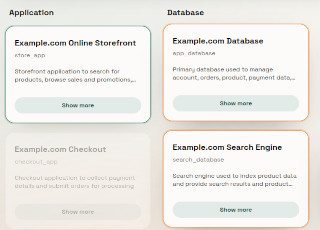
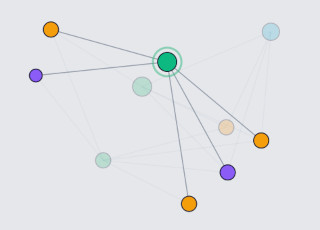
styling

diff --git a/apps/ethycunts/src/components/side-panel/SidePanel.tsx b/apps/ethycunts/src/components/side-panel/SidePanel.tsx
@@ -57,15 +57,15 @@ export function SidePanel({
   }, [selectedNodeId])
 
   return (
-    <div className="flex flex-col h-full bg-card">
+    <div className="flex flex-col h-full w-full">
         <div className="p-4 flex flex-col gap-6">
           {/* Detail panel */}
           {selectedSystem && (
-            <div className="bg-secondary/20 border border-border/50 rounded-xl p-5 animate-in fade-in slide-in-from-top-4 duration-300">
+            <div className="bg-gray-200/50 rounded-xl p-5">
               <div className="flex items-start justify-between mb-3">
                 <div className="flex-1 min-w-0 pr-2">
                   <span
-                    className="mb-2 uppercase tracking-wider text-[10px] font-semibold border-transparent capitalize"
+                    className="uppercase text-[10px] font-semibold"
                     style={{
                       backgroundColor: `${colorForGroup(selectedSystem.systemType)}20`,
                       color: colorForGroup(selectedSystem.systemType),
@@ -73,7 +73,7 @@ export function SidePanel({
                   >
                     {selectedSystem.systemType.replace(/_/g, ' ')}
                   </span>
-                  <h2 className="text-lg font-bold tracking-tight leading-snug">
+                  <h2 className="mt-2 text-lg font-bold">
                     {selectedSystem.name}
                   </h2>
                   <p className="text-xs font-mono text-muted-foreground mt-0.5">
@@ -102,9 +102,9 @@ export function SidePanel({
                     {selectedSystem.privacyDeclarations.map((decl, i) => (
                       <div
                         key={i}
-                        className="bg-background/50 border border-border/50 rounded-lg p-3 space-y-2"
+                        className="bg-gray-100/70 rounded-lg p-3 space-y-2 overflow-hidden"
                       >
-                        <p className="text-xs font-semibold text-foreground">
+                        <p className="pb-2 text-xs font-semibold text-foreground">
                           {decl.name}
                         </p>
                         <div className="grid grid-cols-[auto_1fr] gap-x-3 gap-y-1.5 text-xs">
@@ -118,11 +118,11 @@ export function SidePanel({
                           <span className="text-muted-foreground font-medium">
                             Categories
                           </span>
-                          <div className="flex flex-wrap gap-1">
+                          <div className="flex flex-wrap gap-1 min-w-0">
                             {decl.dataCategories.map((cat) => (
                               <span
                                 key={cat}
-                                className="bg-secondary/60 text-foreground/80 px-1.5 py-0.5 rounded text-[10px] font-mono"
+                                className="bg-secondary/60 text-foreground/80 px-1.5 py-0.5 rounded text-[10px] font-mono truncate"
                               >
                                 {cat}
                               </span>
@@ -165,7 +165,7 @@ export function SidePanel({
                         <button
                           key={depKey}
                           onClick={() => onSelectNode(depKey)}
-                          className="text-xs bg-background hover:bg-secondary border border-border transition-colors px-2.5 py-1 rounded-full flex items-center gap-1.5"
+                          className="text-xs bg-gray-50 hover:bg-secondary transition-colors px-2.5 py-1 rounded-full flex items-center gap-1.5"
                         >
                           <div
                             className="w-1.5 h-1.5 rounded-full flex-shrink-0"
@@ -185,14 +185,14 @@ export function SidePanel({
 
           {/* Full scrollable list */}
           {!selectedSystem && (<div>
-            <h3 className="text-sm font-semibold mb-4 text-foreground/80 flex items-center justify-between">
+            <h3 className="text-sm font-semibold text-foreground/80 flex items-center justify-between">
               <span>{selectedNodeId ? 'All Systems' : 'System Inventory'}</span>
               <span className="text-[10px]">
                 {filteredNodes.length}
               </span>
             </h3>
 
-            <div className="space-y-6">
+            <div className="space-y-6 mt-4">
               {Object.entries(groupedNodes).map(([group, nodes]) => (
                 <div key={group}>
                   <h4 className="text-xs font-semibold uppercase tracking-wider text-muted-foreground flex items-center gap-2 mb-2 py-1">
@@ -221,7 +221,7 @@ export function SidePanel({
                         `}
                       >
                         <div className="flex items-center justify-between">
-                          <span className="font-medium text-sm text-foreground/90 group-hover:text-foreground transition-colors">
+                          <span className="ml-2 font-medium text-sm text-foreground/90 group-hover:opacity-80 transition-colors">
                             {node.label}
                           </span>
                           <span className="text-[10px] font-mono text-muted-foreground opacity-0 group-hover:opacity-100 transition-opacity">

diff --git a/apps/ethycunts/src/components/d3-map/D3Map.tsx b/apps/ethycunts/src/components/d3-map/D3Map.tsx
@@ -93,7 +93,7 @@ export const D3Map = ({
         d3
           .forceLink<D3Node, D3Link>(links)
           .id((d) => d.id)
-          .distance(120),
+          .distance(160),
       )
       .force('charge', d3.forceManyBody().strength(-350))
       .force('center', d3.forceCenter(width / 2, height / 2))
@@ -180,16 +180,6 @@ export const D3Map = ({
       .attr('stroke', '#0f172a')
       .attr('stroke-width', 1.5)
 
-    nodeGroup
-      .append('text')
-      .attr('dy', (d) => Math.sqrt(d.size) * 3 + 14)
-      .attr('text-anchor', 'middle')
-      .text((d) => d.label)
-      .attr('fill', '#e2e8f0')
-      .style('font-size', '10px')
-      .style('pointer-events', 'none')
-      .style('text-shadow', '0px 1px 3px rgba(0,0,0,0.8)')
-
     simulation.on('tick', () => {
       link
         .attr('x1', (d) => (d.source as D3Node).x!)
@@ -257,7 +247,7 @@ export const D3Map = ({
 
       {tooltip.visible && (
         <div
-          className="fixed z-50 pointer-events-none bg-popover/90 text-popover-foreground px-2 py-1 rounded text-xs font-medium border border-border backdrop-blur-sm"
+          className="fixed z-50 pointer-events-none bg-gray-800/40 text-white px-2 py-1 rounded text-xs font-medium border border-border backdrop-blur-sm"
           style={{ left: tooltip.x + 15, top: tooltip.y + 15 }}
         >
           {tooltip.text}
@@ -272,7 +262,7 @@ export const D3Map = ({
         </Button>
       </div>
 
-      <div className="absolute top-4 left-4 bg-background/80 backdrop-blur-sm p-3 rounded-lg border border-border">
+      <div className="absolute top-4 left-4 bg-gray-100/30 backdrop-blur-sm p-3 rounded-lg border border-border">
         <h4 className="text-xs font-semibold mb-2 uppercase tracking-wider text-muted-foreground">
           System Types
         </h4>
@@ -283,7 +273,7 @@ export const D3Map = ({
                 className="w-2.5 h-2.5 rounded-full flex-shrink-0"
                 style={{ backgroundColor: colorForGroup(group) }}
               />
-              <span className="text-foreground capitalize">
+              <span className="text-gray-800 capitalize">
                 {group.replace(/_/g, ' ')}
               </span>
             </div>

diff --git a/apps/ethycunts/src/components/top-bar/TopBar.tsx b/apps/ethycunts/src/components/top-bar/TopBar.tsx
@@ -4,6 +4,8 @@ import styles from './TopBar.module.css'
 import { FilterControls } from './FilterControls'
 import { DependencyPanel } from '../dependency-panel/DependencyPanel'
 import { useMapStore } from '../../store/useMapStore'
+import { useFiltersStore } from '../../store/useFiltersStore'
+import { MapMode } from '../../types/types'
 
 export const TopBar = () => {
   const [filtersOpen, setFiltersOpen] = useState(true)
@@ -12,15 +14,19 @@ export const TopBar = () => {
   const activeSystem = useMapStore((state) => state.activeSystem)
   const dependencies = useMapStore((state) => state.dependencies)
   const clearSelection = useMapStore((state) => state.clearSelection)
-  const cardRefs = useMapStore(state => state.cardRefs)
+  const cardRefs = useMapStore((state) => state.cardRefs)
+  const mapMode = useFiltersStore((state) => state.mapMode)
 
   const handleDependencyClick = (key: string) => {
     const node = cardRefs.get(key)
     if (!node) return
-    node.scrollIntoView({ behavior: 'smooth', block: 'center', inline: 'center' })
+    node.scrollIntoView({
+      behavior: 'smooth',
+      block: 'center',
+      inline: 'center',
+    })
   }
 
-  
   useEffect(() => {
     const media = window.matchMedia('(max-width: 65rem)')
     const apply = () => setIsMobile(media.matches)
@@ -50,17 +56,20 @@ export const TopBar = () => {
 
       <div
         className={`${
-          (!isMobile || filtersOpen) ? styles.filtersOpen : styles.filtersClosed
+          !isMobile || filtersOpen ? styles.filtersOpen : styles.filtersClosed
         }`}
       >
         <FilterControls />
       </div>
 
-      {activeSystem && (
+      {activeSystem && mapMode === MapMode.ColourCode && (
         <div
           className={`${styles.depsPanel} ${!isMobile || depsOpen ? styles.depsOpen : styles.depsClosed}`}
         >
-          <DependencyPanel dependencies={dependencies} onDependencyClick={handleDependencyClick} />
+          <DependencyPanel
+            dependencies={dependencies}
+            onDependencyClick={handleDependencyClick}
+          />
         </div>
       )}
     </header>

diff --git a/apps/ethycunts/src/App.tsx b/apps/ethycunts/src/App.tsx
@@ -44,8 +44,8 @@ function App() {
             <MapSection containerRef={containerRef} />
           )}
           {mapMode === MapMode.D3 && (
-            <div className='flex h-screen w-full overflow-hidden bg-background text-foreground'>
-              <div className="w-[65%] h-full border-r border-border relative bg-black/20">
+            <div className='flex h-[calc(100vh_-_15rem)] w-full overflow-hidden bg-background text-foreground'>
+              <div className="w-[65%] relative bg-gray-200">
                 <D3Map
                   graphData={graphData}
                   selectedNodeId={selectedNodeId}
@@ -53,7 +53,7 @@ function App() {
                 />
               </div>
 
-              <div className="w-[35%] h-full bg-card overflow-hidden flex flex-col">
+              <div className="w-[35%] overflow-hidden flex flex-col bg-gray-300">
                 <SidePanel
                   systems={systems}
                   graphData={graphData}

diff --git a/apps/ethycunts/src/components/system-card/SystemCardDetails.tsx b/apps/ethycunts/src/components/system-card/SystemCardDetails.tsx
@@ -14,12 +14,15 @@ export const SystemCardDetails = ({ uses, categories, systemDependencies }: Syst
   const { systemsMap } = useMapStore()
 
   return (<>
-    <div className={styles.uses}>
-      {uses.map((use) => (
-        <span key={use} className={styles.tag}>
-          {titleCase(use)}
-        </span>
-      ))}
+    <div>
+      <p className={styles.label}>Uses</p>
+      <p>
+        {uses.map((use) => (
+          <span key={use} className={styles.tag}>
+            {titleCase(use)}
+          </span>
+        ))}
+      </p>
     </div>
     <div>
       <p className={styles.label}>Data categories</p>

diff --git a/apps/ethycunts/src/components/system-card/SystemCardDetails.module.css b/apps/ethycunts/src/components/system-card/SystemCardDetails.module.css
@@ -1,14 +1,8 @@
-.uses {
-  display: flex;
-  flex-wrap: wrap;
-  gap: 0.5rem;
-}
-
 .tag {
   font-size: 0.6875rem;
   letter-spacing: 0.06em;
   padding: 0.25rem 0.5rem;
-  background: var(--color-orange-100/80);
+  background: var(--color-orange-100);
   color: var(--color-stone-950);
   border-radius: 62.4375rem;
 }
@@ -32,7 +26,7 @@
   padding: 0.3125rem 0.625rem;
   border-radius: 62.4375rem;
   border: 0.0625rem solid var(--color-stone-300);
-  background: var(--color-white);
+  background: var(--color-gray-100);
 }
 
 .dependencyList {

diff --git a/apps/ethycunts/src/components/system-card/SystemCard.tsx b/apps/ethycunts/src/components/system-card/SystemCard.tsx
@@ -51,7 +51,7 @@ export const SystemCard = ({ system}: SystemCardProps) => {
     if (isConnected) classes.push(styles.connected)
     if (isActive) classes.push(styles.active)
 
-    return classes.filter(Boolean).join(' ')
+    return classes.filter(Boolean).join(' ').trim()
   }, [expanded, dimmed, isFiltered, isConnected, isActive])
 
   return (

diff --git a/apps/ethycunts/src/utils/colors.ts b/apps/ethycunts/src/utils/colors.ts
@@ -1,9 +1,9 @@
 export const GROUP_COLORS: Record<string, string> = {
   analytics: '#3b82f6',
-  third_party_integration: '#f59e0b',
+  integration: '#f59e0b',
   application: '#10b981',
-  infrastructure: '#8b5cf6',
-  saas: '#06b6d4',
+  database: '#8b5cf6',
+  service: '#06b6d4',
   api: '#ef4444',
 }
 

diff --git a/apps/ethycunts/src/index.css b/apps/ethycunts/src/index.css
@@ -31,7 +31,6 @@ h1,
 h2,
 h3 {
   color: var(--color-stone-950);
-  margin: 0;
 }
 
 h1 {
@@ -43,7 +42,4 @@ h2 {
   font-size: 1rem;
 }
 
-p {
-  margin: 0;
-}
 

diff --git a/apps/ethycunts/src/components/dependency-panel/DependencyPanel.module.css b/apps/ethycunts/src/components/dependency-panel/DependencyPanel.module.css
@@ -1,5 +1,4 @@
 .panel {
-  background: var(--color-orange-100);
   display: flex;
   flex-direction: column;
   justify-content: space-between;

diff --git a/apps/ethycunts/src/App.module.css b/apps/ethycunts/src/App.module.css
@@ -2,7 +2,6 @@
   display: flex;
   flex-direction: column;
   gap: 1rem;
-  min-height: 100vh;
 }
 
 .layout { 
